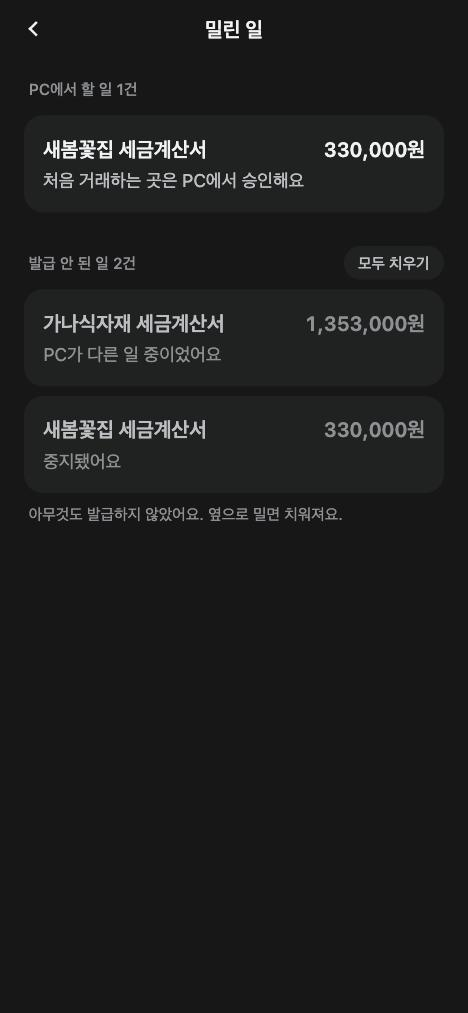
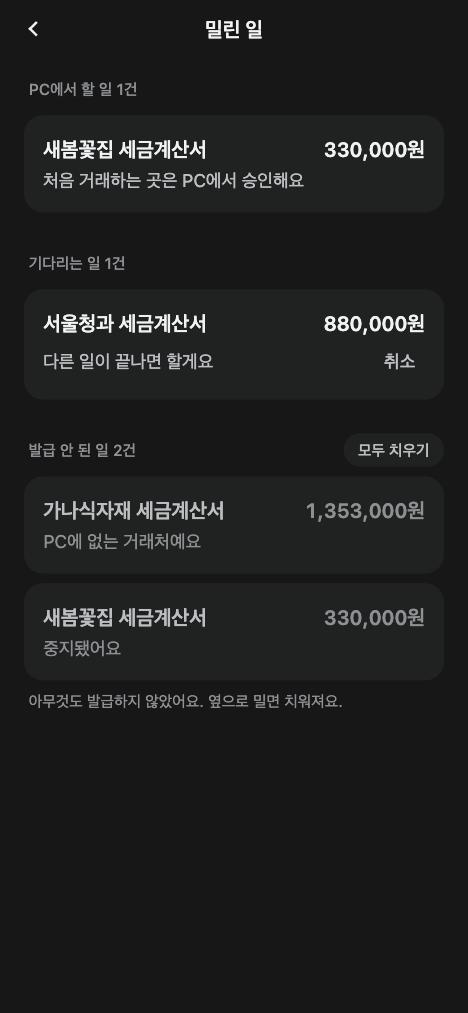
PC가 다른 일 중이면 저절로 이어서 맡긴다(30초마다 같은 cmdId로 다시, 72시간까지)
- pc_busy 거절은 끝난 것이 아니라 기다리는 일: "다른 일이 끝나면 할게요", [취소] 가능.
- 다시 보낼 때 작성일자를 그날로 바꾼다(PC는 거절한 cmdId를 적어 두지 않아 같은 cmdId로 다시 받는다).

diff --git a/test/phone-cmd.spec.ts b/test/phone-cmd.spec.ts
@@ -21,7 +21,7 @@ const { driveCmds, trimCmds } = await import('../src/net/issueLive.ts');
 const { PHONE_CAPS } = await import('../src/net/pcCopy.ts');
 const { STOP_COPY } = await import('../src/run.ts');
 const { actionFor } = await import('../src/queue.ts');
-const { REJECT_LINE, applyAck, applyEvent, issueRequest, jobOf, kstDay, runViewOf, settled } = await import('../src/phoneCmd.ts');
+const { BUSY_GIVE_UP_MS, BUSY_RETRY_MS, REJECT_LINE, applyAck, applyEvent, busyWaiting, issueRequest, jobOf, kstDay, runViewOf, settled } = await import('../src/phoneCmd.ts');
 
 const T0 = Date.parse('2026-11-17T01:00:00Z');
 const cmd = (o: Partial<PhoneCmd> = {}): PhoneCmd => ({
@@ -87,19 +87,20 @@ describe('cmd.ack · run.event → 진행 화면', () => {
     assert.match(STOP_COPY.pcStopped.line, /아무것도 발급하지 않았어요/);
   });
   it('거절 이유는 한 줄 문구로, 같은 runId의 duplicate는 다시 붙기', () => {
-    for (const reason of ['playbook_unavailable', 'input_invalid', 'counterparty_unknown', 'pc_busy', 'hometax_paused'] as const) {
+    for (const reason of ['playbook_unavailable', 'input_invalid', 'counterparty_unknown', 'hometax_paused'] as const) {
       const c = applyAck(cmd(), { cmdId: cmd().cmdId, state: 'rejected', reason });
       assert.deepEqual(runViewOf(c), { kind: 'refused', reason, startedAt: T0 });
       assert.ok(REJECT_LINE[reason].length > 0);
       assert.equal(settled(c), true);
     }
+    assert.ok(REJECT_LINE.pc_busy.length > 0);
     const again = applyAck(cmd({ ack: 'pc_only', runId: 'run1', phase: 'readback', at: T0 }), { cmdId: cmd().cmdId, state: 'rejected', reason: 'duplicate', runId: 'run1' });
     assert.equal(again.ack, 'pc_only');
     assert.equal(again.phase, 'readback');
     assert.equal(settled(again), false);
   });
   it('끝난 명령은 최근 20개만 남기고 끝나지 않은 명령은 지우지 않는다', () => {
-    const done = Array.from({ length: 25 }, (_, i) => cmd({ cmdId: `D${i}`, createdAt: T0 + i, ack: 'rejected', reason: 'pc_busy' }));
+    const done = Array.from({ length: 25 }, (_, i) => cmd({ cmdId: `D${i}`, createdAt: T0 + i, ack: 'rejected', reason: 'input_invalid' }));
     const open = cmd({ cmdId: 'OPEN', createdAt: 0 });
     const kept = trimCmds([open, ...done]);
     assert.equal(kept.length, 21);
@@ -179,7 +180,7 @@ describe('라이브 세션 구동(mock)', () => {
   });
   it('끝난 명령만 있으면 아무것도 보내지 않는다', async () => {
     const m = mockChannel(() => []);
-    assert.equal(await driveCmds(m.ch as never, [CAP.issue], store([cmd({ ack: 'rejected', reason: 'pc_busy' })]).io, 5000), 'none');
+    assert.equal(await driveCmds(m.ch as never, [CAP.issue], store([cmd({ ack: 'rejected', reason: 'input_invalid' })]).io, 5000), 'none');
     assert.equal(m.sent.length, 0);
   });
   it('세션이 끊기면 멈춘다(다음 연결 때 다시 보낸다)', async () => {
@@ -194,7 +195,7 @@ describe('라이브 세션 구동(mock)', () => {
 
 describe('밀린 일: 거절·중지된 폰 발급 명령', () => {
   it('끝난 거절·중지 줄은 [치우기]가 있다. 아직 안 보낸 명령은 [취소], 확인 필요는 [자세히]', () => {
-    const refused = jobOf(applyAck(cmd({ sentAt: T0 }), { cmdId: cmd().cmdId, state: 'rejected', reason: 'pc_busy' }));
+    const refused = jobOf(applyAck(cmd({ sentAt: T0 }), { cmdId: cmd().cmdId, state: 'rejected', reason: 'counterparty_unknown' }));
     assert.equal(refused.state, 'needPc');
     assert.equal(actionFor(refused, 'needPc')?.key, 'dismiss');
     const stopped = jobOf(applyEvent(applyAck(cmd({ sentAt: T0 }), { cmdId: cmd().cmdId, state: 'pc_only', runId: 'run1' }), { runId: 'run1', event: 'phase', at: T0 + 1, phase: 'stopped' }));
@@ -206,5 +207,38 @@ describe('밀린 일: 거절·중지된 폰 발급 명령', () => {
   });
   it('폰 승인 한도처럼 PC 앞에서 해야 하는 일(run 없음)에는 동작이 없다', () => {
     assert.equal(actionFor({ id: 'j', title: 't', amount: 1, createdAt: T0, state: 'needPc', reason: 'dailyLimit' }, 'needPc'), null);
+  });
+});
+
+describe('PC가 다른 일 중(pc_busy): 저절로 이어서 한다', () => {
+  it('거절이 아니라 기다리는 일이고, 30초 뒤 다시 보낸다. 72시간이 지나면 그만둔다', () => {
+    const now = T0 + 60_000;
+    const c = applyAck(cmd({ sentAt: T0 }), { cmdId: cmd().cmdId, state: 'rejected', reason: 'pc_busy' }, now);
+    assert.equal(c.retryAt, now + BUSY_RETRY_MS);
+    assert.equal(busyWaiting(c, now), true);
+    assert.equal(settled(c, now), false);
+    assert.equal(settled(c, T0 + BUSY_GIVE_UP_MS), true);
+  });
+  it('밀린 일에서는 기다리는 일, [취소]만 있다', () => {
+    const j = jobOf(applyAck(cmd({ sentAt: T0, createdAt: Date.now() }), { cmdId: cmd().cmdId, state: 'rejected', reason: 'pc_busy' }));
+    assert.equal(j.state, 'phoneWaiting');
+    assert.equal(j.wait, 'pcBusy');
+    assert.equal(j.run, undefined);
+    assert.equal(actionFor(j, 'phoneWaiting')?.key, 'cancel');
+  });
+  it('세션 중에 다시 보낼 때가 되면 같은 cmdId, 오늘 작성일자로 다시 보내고 이어서 끝난다', async () => {
+    let clock = T0;
+    const m = mockChannel((sent) =>
+      sent.length === 1
+        ? [env('cmd.ack', { cmdId: cmd().cmdId, state: 'rejected', reason: 'pc_busy' })]
+        : [env('cmd.ack', { cmdId: cmd().cmdId, state: 'pc_only', runId: 'run2' }), env('run.event', { runId: 'run2', event: 'phase', at: clock, phase: 'done', result: { approvalNo: 'A2', total: 1_353_005 } })],
+    );
+    const s = store([cmd()]);
+    const r = await driveCmds(m.ch as never, [CAP.issue], { ...s.io, now: () => (clock += 5_000) }, 10 * 60_000);
+    assert.equal(r, 'settled');
+    assert.equal(m.sent.length, 2);
+    assert.equal((m.sent[1]!.body as { cmdId: string }).cmdId, cmd().cmdId);
+    assert.equal(s.get()[0]!.retries, 1);
+    assert.equal(s.get()[0]!.phase, 'done');
   });
 });

diff --git a/src/phoneCmd.ts b/src/phoneCmd.ts
@@ -27,6 +27,27 @@ export interface PhoneCmd {
   code?: string;
   attempt?: number;
   result?: RunResult;
+  /** PC가 다른 일 중이라 거절(pc_busy)했을 때 다시 보낼 시각. 그 전까지는 기다리는 일로 보인다. */
+  retryAt?: number;
+  /** 다시 보낸 횟수 */
+  retries?: number;
+}
+
+/** PC가 다른 일 중일 때 다시 보내는 간격과, 그만두는 때(맡긴 지 72시간, 밀린 일 만료와 같다) */
+export const BUSY_RETRY_MS = 30_000;
+export const BUSY_GIVE_UP_MS = 72 * 3_600_000;
+
+/** PC가 다른 일 중이라 받지 않았고 아직 다시 보낼 수 있는 명령. 끝난 것이 아니다: 저절로 이어서 한다. */
+export function busyWaiting(c: PhoneCmd, now = Date.now()): boolean {
+  return !c.pcOld && c.ack === 'rejected' && c.reason === 'pc_busy' && now - c.createdAt < BUSY_GIVE_UP_MS;
+}
+
+/** 다시 보낼 때가 된 명령 */
+export const retryDue = (c: PhoneCmd, now = Date.now()): boolean => busyWaiting(c, now) && (c.retryAt ?? 0) <= now;
+
+/** 다시 보내기 전에: 답을 지우고 작성일자를 오늘로(자정을 넘겼으면 PC가 input_invalid로 받지 않는다). 같은 cmdId를 쓴다(PC는 거절한 cmdId를 적어 두지 않는다). */
+export function forRetry(c: PhoneCmd, now = Date.now()): PhoneCmd {
+  return { ...c, ack: undefined, reason: undefined, retryAt: undefined, retries: (c.retries ?? 0) + 1, req: { ...c.req, day: kstDay(now) } };
 }
 
 /** 오늘(한국 시간) YYYY-MM-DD */
@@ -41,11 +62,12 @@ export function issueRequest(p: { ref: string; supply: number; item: string; now
 /** 같은 runId로 다시 붙은 duplicate는 거절이 아니다(앞서 보낸 명령이 이미 돌고 있다). */
 export const isReattach = (a: CmdAckBody): boolean => a.state === 'rejected' && a.reason === 'duplicate' && !!a.runId;
 
-export function applyAck(c: PhoneCmd, a: CmdAckBody): PhoneCmd {
+export function applyAck(c: PhoneCmd, a: CmdAckBody, now = Date.now()): PhoneCmd {
   if (a.cmdId !== c.cmdId) return c;
   if (isReattach(a)) return { ...c, ack: c.ack && c.ack !== 'rejected' ? c.ack : 'pc_only', runId: a.runId, reason: undefined };
   // 이미 진행 중인 명령에 늦게 온 거절은 덮지 않는다
   if (a.state === 'rejected' && c.phase) return c;
+  if (a.state === 'rejected' && a.reason === 'pc_busy') return { ...c, ack: 'rejected', reason: 'pc_busy', runId: a.runId ?? c.runId, retryAt: now + BUSY_RETRY_MS };
   return { ...c, ack: a.state, runId: a.runId ?? c.runId, reason: a.state === 'rejected' ? a.reason : undefined };
 }
 
@@ -64,8 +86,9 @@ export function applyEvent(c: PhoneCmd, e: RunEventBody): PhoneCmd {
 }
 
 /** 더 기다릴 것이 없는 명령(라이브 세션을 붙잡고 있지 않는다) */
-export function settled(c: PhoneCmd): boolean {
+export function settled(c: PhoneCmd, now = Date.now()): boolean {
   if (c.pcOld) return true;
+  if (busyWaiting(c, now)) return false;
   if (c.ack === 'rejected') return true;
   if (c.phase === 'done') return !!c.result || c.code !== 'in_doubt';
   if (c.phase === 'stopped') return c.code !== 'in_doubt';
@@ -118,9 +141,11 @@ export function runViewOf(c: PhoneCmd): RunView | null {
 
 /** 밀린 일·대화 카드가 보는 일 한 건 */
 export function jobOf(c: PhoneCmd): Job {
-  const run = runViewOf(c);
   const title = `${c.cpName} 세금계산서`;
   const base = { id: `cmd-${c.cmdId}`, title, amount: c.total, createdAt: c.createdAt, pcOnly: true };
+  // PC가 다른 일 중: 기다리는 일로 두고 저절로 다시 보낸다(취소할 수 있다, PC는 아무것도 시작하지 않았다)
+  if (busyWaiting(c)) return { ...base, state: 'phoneWaiting', wait: 'pcBusy' };
+  const run = runViewOf(c);
   if (!run) return { ...base, state: 'entrusted' };
   const state: Job['state'] = run.kind === 'done' ? 'done' : run.kind === 'verify' ? 'verify' : run.kind === 'refused' || run.kind === 'stopped' ? 'needPc' : 'running';
   return { ...base, state, run };

diff --git a/src/net/issueLive.ts b/src/net/issueLive.ts
@@ -3,7 +3,7 @@
 // - 끝나지 않은 명령이 있는 동안 세션을 붙잡고 지켜본다(최대 WATCH_MS). 끊기면 다음 연결 때 PC가 지금 상태를 다시 보낸다.
 // - PC가 issue.v1을 알리지 않으면 보내지 않고 "PC 앱을 새 버전으로" 상태로 둔다.
 import { CAP, issueCmd, type Channel, type CmdAckBody, type PhoneCopyBody, type RunEventBody } from '@sax/remote';
-import { applyAck, applyEvent, settled, type PhoneCmd } from '../phoneCmd.ts';
+import { applyAck, applyEvent, busyWaiting, forRetry, retryDue, settled, type PhoneCmd } from '../phoneCmd.ts';
 
 export const WATCH_MS = 10 * 60_000;
 const TICK_MS = 2_000;
@@ -22,7 +22,7 @@ type Ch = Pick<Channel, 'send' | 'recv' | 'closed'>;
 
 export async function driveCmds(ch: Ch, peerCaps: readonly string[], io: CmdIo, watchMs = WATCH_MS): Promise<'none' | 'pc_old' | 'settled' | 'closed' | 'timeout'> {
   const now = io.now ?? Date.now;
-  const open = io.cmds().filter((c) => !settled(c));
+  const open = io.cmds().filter((c) => !settled(c, now()));
   if (!open.length) return 'none';
   const ids = new Set<string>();
   if (!peerCaps.includes(CAP.issue)) {
@@ -42,12 +42,26 @@ export async function driveCmds(ch: Ch, peerCaps: readonly string[], io: CmdIo, 
     }
     if (!c.sentAt) await io.save((cs) => cs.map((x) => (x.cmdId === c.cmdId ? { ...x, sentAt: now() } : x)));
   };
-  for (const c of open) await send(c);
+  // PC가 다른 일 중이라 기다리는 명령은 다시 보낼 때가 된 것만 보낸다
+  const retry = async (c: PhoneCmd) => {
+    await io.save((cs) => cs.map((x) => (x.cmdId === c.cmdId ? forRetry(x, now()) : x)));
+    const fresh = io.cmds().find((x) => x.cmdId === c.cmdId);
+    if (fresh) await send(fresh);
+  };
+  for (const c of open) {
+    if (busyWaiting(c, now())) {
+      if (retryDue(c, now())) await retry(c);
+      else ids.add(c.cmdId);
+    } else await send(c);
+  }
   const deadline = t0 + watchMs;
   for (;;) {
     // 지켜보는 동안 새로 맡긴 명령도 이 세션으로 보낸다
-    for (const c of io.cmds()) if (!ids.has(c.cmdId) && !settled(c)) await send(c);
-    if (io.cmds().filter((c) => ids.has(c.cmdId)).every(settled)) return 'settled';
+    for (const c of io.cmds()) {
+      if (retryDue(c, now())) await retry(c);
+      else if (!ids.has(c.cmdId) && !settled(c, now()) && !busyWaiting(c, now())) await send(c);
+    }
+    if (io.cmds().filter((c) => ids.has(c.cmdId)).every((c) => settled(c, now()))) return 'settled';
     if (ch.closed) return 'closed';
     if (io.alive && !io.alive()) return 'closed';
     const left = deadline - now();
@@ -56,7 +70,7 @@ export async function driveCmds(ch: Ch, peerCaps: readonly string[], io: CmdIo, 
     if (!e) continue;
     if (e.type === 'cmd.ack') {
       const a = e.body as CmdAckBody;
-      await io.save((cs) => cs.map((c) => applyAck(c, a)));
+      await io.save((cs) => cs.map((c) => applyAck(c, a, now())));
     } else if (e.type === 'run.event') {
       const ev = e.body as RunEventBody;
       await io.save((cs) => cs.map((c) => applyEvent(c, ev)));

diff --git a/src/queueStore.tsx b/src/queueStore.tsx
@@ -3,7 +3,7 @@
 // simulate(갤러리·시연 전용): PC가 켜져 맡긴 발급이 준비 → 홈택스 로그인 → 값 확인을 지나 "PC가 승인 요청함"이 되고 시트가 뜬다.
 //   승인하면 발급 → 확인 → 결과 카드. simulate='inDoubt'이면 발급 뒤 응답이 끊겨 확인 중(조회 n회째) → 확인 필요로 간다.
 import { createContext, useContext, useEffect, useMemo, useRef, useState, type ReactNode } from 'react';
-import { jobOf, settled } from './phoneCmd';
+import { busyWaiting, jobOf, settled } from './phoneCmd';
 import { SessionContext } from './session';
 import { jobTimers } from './jobTimers';
 import { josa } from './ui/josa';
@@ -142,9 +142,9 @@ export function QueueProvider({
           return;
         }
         if (action === 'cancel' && id.startsWith('cmd-')) {
-          // 아직 보내지 않은 명령만 지운다(보낸 명령은 PC에서 멈춘다)
+          // 아직 보내지 않았거나 PC가 다른 일 중이라 기다리는 명령만 지운다(PC가 시작한 명령은 PC에서 멈춘다)
           const cmdId = id.slice(4);
-          void sess?.update((d) => ({ ...d, cmds: (d.cmds ?? []).filter((c) => c.cmdId !== cmdId || !!c.sentAt) }));
+          void sess?.update((d) => ({ ...d, cmds: (d.cmds ?? []).filter((c) => c.cmdId !== cmdId || (!!c.sentAt && !busyWaiting(c))) }));
           return;
         }
         if (action === 'cancel') timers.clear(id);

diff --git a/gallery/Gallery.tsx b/gallery/Gallery.tsx
@@ -526,7 +526,8 @@ const SCREENS: Record<
   'queue-refused': () => ({
     session: fake(paired(), 'online'),
     jobs: [
-      { ...runJob({ kind: 'refused', reason: 'pc_busy', startedAt: T0 }, { state: 'needPc' }), pcOnly: true },
+      { id: 'w1', title: '서울청과 세금계산서', amount: 880_000, createdAt: T0, state: 'phoneWaiting', wait: 'pcBusy', pcOnly: true },
+      { ...runJob({ kind: 'refused', reason: 'counterparty_unknown', startedAt: T0 }, { state: 'needPc' }), pcOnly: true },
       { ...runJob({ kind: 'stopped', step: 'login', reason: 'pcStopped', startedAt: T0 }, { title: '새봄꽃집 세금계산서', amount: 330_000, state: 'needPc' }), id: 'r2', pcOnly: true },
       JOBS[3]!,
     ],

diff --git a/src/screens/QueueScreen.tsx b/src/screens/QueueScreen.tsx
@@ -69,6 +69,7 @@ const PLAIN: Record<JobState, string> = {
 /** 카드 둘째 줄: 지금 상태 한 문장 */
 export function statusLine(job: Job, state: JobState): string {
   const r: RunView | undefined = job.run;
+  if (job.wait === 'pcBusy') return '다른 일이 끝나면 할게요';
   if (r?.kind === 'refused') return REFUSED[r.reason];
   if (r?.kind === 'stopped') return '중지됐어요';
   if (state === 'needPc' && job.reason) return NEED_PC[job.reason];

diff --git a/src/queue.ts b/src/queue.ts
@@ -40,6 +40,8 @@ export interface Job {
   run?: RunView;
   /** 폰 발급 명령(cmd.run, pc_only): 승인·중지·예약은 PC에서. 폰 진행 화면은 닫기만 둔다. */
   pcOnly?: boolean;
+  /** 기다리는 까닭. pcBusy: PC가 다른 일 중이라 끝나면 저절로 이어서 맡긴다 */
+  wait?: 'pcBusy';
 }
 
 /** 다 끝난 일 한 줄(빈 화면에 보인다) */

diff --git a/docs/design.md b/docs/design.md
@@ -131,6 +131,7 @@
 - 묶음 이름은 사장님 쪽 말("승인할 일 1건", "PC에서 할 일 2건").
 - 단추: 승인할 일만 채운 [승인하기](승인 시트). 빼기·취소·다시 맡기기는 상태 줄 끝 글자 단추.
 - PC가 거절·중지해 끝난 일은 "발급 안 된 일"에 흐린 글자로. 카드를 좌우로 밀면 치워지고(`src/ui/SwipeAway.tsx`, 손가락과 1:1, 폭 40% 또는 빠른 튕김), 머리 [모두 치우기]로 한 번에. 읽기 도구에는 "치우기" 동작.
+- PC가 다른 일 중이라 받지 않은 발급(pc_busy)은 거절로 보지 않는다. "기다리는 일" 카드에 "다른 일이 끝나면 할게요"와 [취소]. 폰은 세션이 열려 있는 동안 30초마다, 다시 연결할 때마다 같은 cmdId로 다시 보낸다(작성일자는 그날로, 맡긴 지 72시간이 지나면 그만두고 "발급 안 된 일"로).
 - 돈 탭 받을 돈·낼 돈 카드의 0건 줄은 숨긴다.
 
 ## 점검
